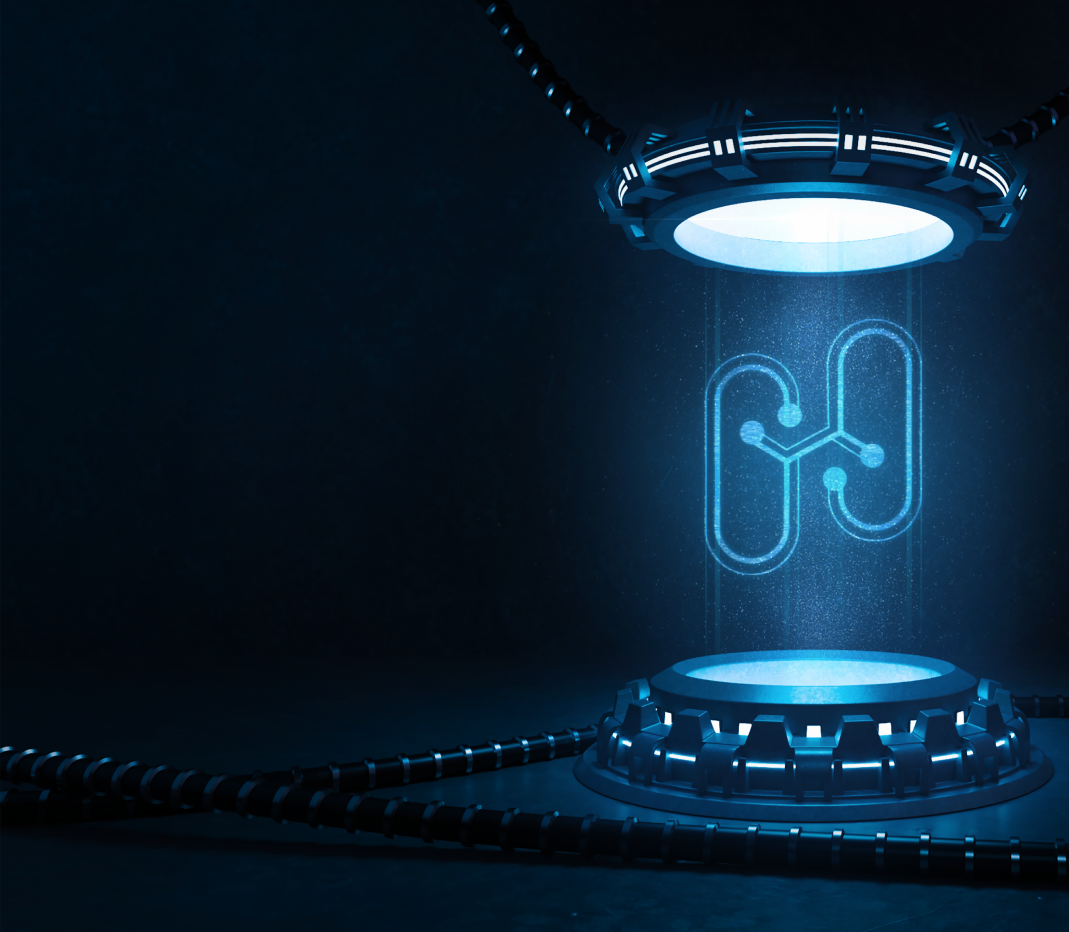
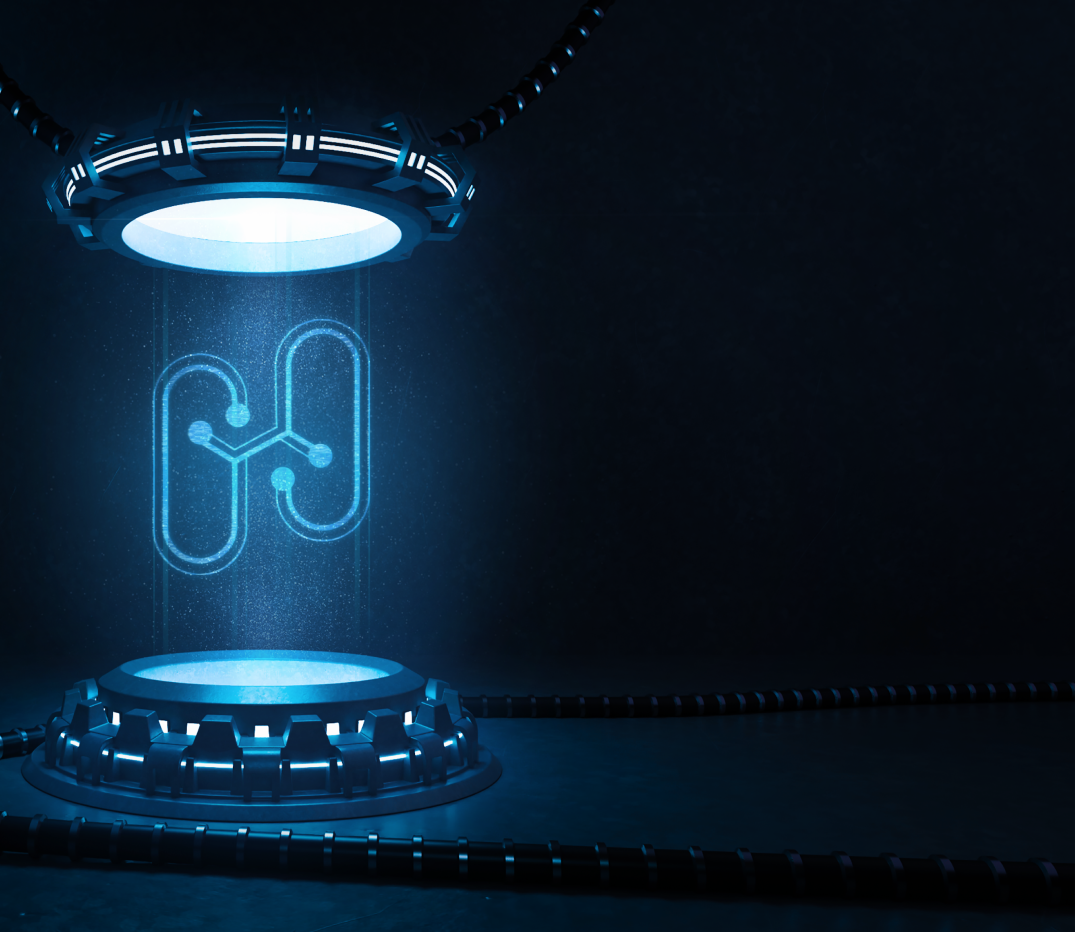
Almost finished Overview section

diff --git a/components/Content/First.tsx b/components/Content/First.tsx
@@ -22,14 +22,32 @@ export const First = () => {
               '21vw 22vh 1px 1px #fff,13vw -49vh 1px 0px #fff,-38vw -40vh 0px 0px #fff,-18vw -23vh 0px 1px #fff,-38vw -49vh 1px 0px #fff,44vw 2vh 0px 1px #fff,-35vw 6vh 0px 1px #fff,-28vw 13vh 1px 0px #fff,-37vw -23vh 0px 0px #fff,-9vw 16vh 0px 0px #fff,21vw -18vh 1px 0px #fff,37vw 28vh 0px 0px #fff,34vw -29vh 0px 1px #fff,35vw 31vh 1px 0px #fff,37vw -6vh 0px 0px #fff,27vw -1vh 1px 1px #fff,-11vw 28vh 0px 1px #fff,-36vw 12vh 0px 1px #fff,4vw 32vh 1px 0px #fff,38vw -38vh 1px 0px #fff,14vw -5vh 1px 0px #fff,30vw 25vh 0px 1px #fff,44vw 7vh 0px 1px #fff,-50vw -23vh 0px 1px #fff,0vw -14vh 0px 0px #fff,50vw -34vh 1px 1px #fff,48vw -46vh 1px 0px #fff,41vw 32vh 1px 0px #fff,23vw -20vh 0px 1px #fff,23vw -13vh 1px 0px #fff,-49vw -48vh 0px 1px #fff,29vw -12vh 1px 1px #fff,-33vw 50vh 0px 0px #fff,30vw 14vh 1px 1px #fff,20vw -26vh 0px 0px #fff,-16vw -31vh 1px 0px #fff,40vw 1vh 0px 1px #fff,-28vw -43vh 0px 1px #fff,13vw 48vh 1px 0px #fff,49vw -43vh 0px 0px #fff,12vw 45vh 0px 0px #fff,-2vw -22vh 1px 0px #fff,-2vw -41vh 1px 0px #fff,6vw 13vh 1px 0px #fff,-36vw 17vh 1px 1px #fff,29vw -41vh 0px 1px #fff,-32vw 15vh 1px 0px #fff,19vw -44vh 0px 0px #fff,-16vw 31vh 1px 0px #fff,15vw 30vh 1px 0px #fff,-34vw 35vh 0px 1px #fff,13vw -1vh 1px 0px #fff,-7vw -22vh 0px 1px #fff,-20vw -35vh 0px 0px #fff,13vw -37vh 0px 0px #fff,-26vw 50vh 1px 1px #fff,-25vw 40vh 1px 0px #fff,45vw 8vh 0px 1px #fff,-24vw 26vh 0px 0px #fff,48vw 33vh 0px 0px #fff,-17vw -26vh 0px 1px #fff,46vw 36vh 0px 0px #fff,46vw -35vh 0px 0px #fff,-43vw -44vh 1px 0px #fff,1vw -49vh 1px 0px #fff,-37vw 12vh 0px 1px #fff,-49vw -31vh 1px 0px #fff,28vw 22vh 0px 0px #fff,2vw -30vh 1px 0px #fff,-3vw -24vh 0px 0px #fff,-45vw -16vh 0px 1px #fff,44vw -45vh 0px 1px #fff,-23vw -33vh 0px 0px #fff,-49vw 28vh 0px 1px #fff,-30vw 5vh 0px 0px #fff,31vw -5vh 1px 1px #fff,-12vw -28vh 0px 0px #fff,-43vw 49vh 0px 1px #fff,49vw 20vh 0px 0px #fff,-39vw 20vh 1px 1px #fff,-20vw 42vh 1px 1px #fff,-47vw -50vh 1px 1px #fff,-23vw 44vh 0px 1px #fff,34vw 21vh 1px 1px #fff,-43vw -9vh 1px 0px #fff,-28vw 12vh 0px 1px #fff,27vw 38vh 1px 0px #fff,-35vw -14vh 0px 1px #fff,-21vw 1vh 0px 0px #fff,-31vw 45vh 0px 0px #fff,22vw -33vh 0px 0px #fff,-6vw 23vh 0px 1px #fff,8vw -36vh 0px 1px #fff,0vw -43vh 1px 0px #fff,-2vw 29vh 1px 1px #fff,46vw -10vh 1px 0px #fff,-24vw 47vh 0px 0px #fff,-40vw 41vh 1px 0px #fff,-20vw -32vh 1px 0px #fff,33vw -26vh 1px 0px #fff'
           }}
         ></div>
-        <div className='relative'>
-          <OverviewCardLeft />
+        <div className="relative">
+          <OverviewCardLeft
+            sloganRight="Building The"
+            sloganLeft="Future of Web 3"
+            thinTitle="Our"
+            boldTitle="Mission"
+            text="Web3 has immense potential and can disrupt our societies in the long run, but for
+            now it is mostly dangerous. We believe that reliable and trustworthy infrastructures
+            are essential to create a healthy foundation for this new decentralized internet."
+            backImageClass="bg-no-repeat bg-left bg-cover bg-[url('/static/images/HeroLab.png')] lg:rounded-lg w-full"
+          />
         </div>
-        <div className='relative pt-52'>
+        <div className="relative pt-52">
           <OverviewCardRight />
         </div>
-        <div className='relative pt-52'>
-          <OverviewCardLeft />
+        <div className="relative pt-52">
+          <OverviewCardLeft
+            sloganRight="Limitless"
+            sloganLeft="Potential"
+            thinTitle="Our"
+            boldTitle="Identity"
+            text="Halcyon is a Web3 development studio that will bring together 
+            the aspirations of investors and the ambitions of builders while federating a knowledgeable 
+            community. Here are three areas in which we act directly."
+            backImageClass="bg-no-repeat bg-center sm:bg-left bg-cover bg-[url('/static/images/HeroWarp.jpg')] lg:rounded-lg w-full"
+          />
         </div>
       </div>
     </>

diff --git a/components/Cards/OverviewCardLeft.tsx b/components/Cards/OverviewCardLeft.tsx
@@ -5,6 +5,7 @@ interface Props {
   thinTitle?: ReactNode;
   boldTitle?: ReactNode;
   text?: ReactNode;
+  backImageClass?: ReactNode;
   // any props that come into the component
 }
 export const OverviewCardLeft = ({
@@ -13,6 +14,7 @@ export const OverviewCardLeft = ({
   thinTitle,
   boldTitle,
   text,
+  backImageClass,
   ...props
 }: Props) => {
   const element = useRef(null);
@@ -53,12 +55,12 @@ export const OverviewCardLeft = ({
           </div>
           <div className="z-20 relative h-[15vh] w-full flex justify-start lg:pl-16 lg:pr-[15vw]">
             <div className="w-full textBoxShadow text-8xl font-semibold py-3 saira flex justify-end uppercase transform scale-[0] translate-x-0">
-              Building the future of Web3
+              {sloganRight}
             </div>
           </div>
           <div className="z-20 relative h-[15vh] w-full flex justify-start lg:pl-16 lg:pr-[15vw]">
             <div className="w-full textBoxShadow text-8xl font-semibold py-3 saira flex justify-start uppercase transform scale-[0]">
-              The Vision
+              {sloganLeft}
             </div>
           </div>
         </div>
@@ -70,30 +72,29 @@ export const OverviewCardLeft = ({
     <>
       <div ref={element} className='h-[100vh]'>
         <div className="z-20 absolute h-[100vh] w-full flex justify-start lg:pl-36 lg:pr-[35vw] sm:pl-14 sm:pr-[20vw] animate-imageTransition">
-          <div className="bg-no-repeat bg-left bg-cover bg-[url('/static/images/HeroLab.png')] lg:rounded-lg w-full">
+          {/* @ts-ignore */}
+          <div className={backImageClass}>
             <div className="h-[100vh] absolute flex justify-start items-center pl-6 sm:pl-24">
-              <div className="text-4xl font-medium text-gray-400">Our</div>
+              <div className="text-4xl font-medium text-gray-400">{thinTitle}</div>
             </div>
             <div className="h-[100vh] absolute flex justify-start items-center pl-6 sm:pl-24 top-12">
-              <div className="textBoxShadow text-5xl font-bold">Mission</div>
+              <div className="textBoxShadow text-5xl font-bold">{boldTitle}</div>
             </div>
             <div className="h-[100vh] w-[300px] sm:w-96 absolute flex justify-start items-center pl-6 sm:pl-24 top-44">
               <div className="text-md font-regular">
-                Web3 has immense potential and can disrupt our societies in the long run, but for
-                now it is mostly dangerous. We believe that reliable and trustworthy infrastructures
-                are essential to create a healthy foundation for this new decentralized internet.
+                {text}
               </div>
             </div>
           </div>
         </div>
         <div className="z-20 relative sm:h-[15vh] w-full flex justify-start xl:pr-[30vw] lg:pr-[20vw] sm:pr-[15vw]">
           <div className="w-full textBoxShadow px-6 lg:text-8xl sm:text-7xl text-6xl font-bold sm:py-3 saira flex justify-start sm:justify-end uppercase animate-imageTransition translate-x-0">
-            Building the
+            {sloganRight}
           </div>
         </div>
         <div className="z-20 relative sm:h-[15vh] w-full flex justify-start xl:pl-16 lg:pl-14 sm:pl-4">
           <div className="w-full textBoxShadow px-6 sm:px-0 lg:text-8xl sm:text-7xl text-6xl font-bold sm:py-3 saira flex justify-start sm:justify-start uppercase animate-imageTransition">
-            future of Web3
+            {sloganLeft}
           </div>
         </div>
       </div>

diff --git a/components/Cards/OverviewCardRight.tsx b/components/Cards/OverviewCardRight.tsx
@@ -68,18 +68,20 @@ export const OverviewCardRight = ({
     <>
       <div ref={element} className="h-[100vh]">
         <div className="z-20 absolute h-[100vh] w-full flex justify-end lg:pr-36 lg:pl-[35vw] sm:pr-14 sm:pl-[20vw] animate-imageTransition">
-          <div className="bg-no-repeat bg-right bg-cover bg-[url('/static/images/HeroHologram.png')] lg:rounded-lg w-full">
-            <div className="h-[100vh] absolute flex items-center pl-6 sm:pl-24">
-              <div className="text-4xl font-medium flex justify-items-end text-gray-400">Our</div>
-            </div>
-            <div className="h-[100vh] absolute flex justify-start items-center pl-6 sm:pl-24 top-12">
-              <div className="textBoxShadow text-5xl font-bold">Identity</div>
-            </div>
-            <div className="h-[100vh] w-[300px] sm:w-96 absolute flex justify-start items-center pl-6 sm:pl-24 top-44">
-              <div className="text-md font-regular">
-                Web3 is a young but fast growing field, and the ecosystems related to different L1s
-                and L2s are still in their infancy. The expansion of the Web3 sphere will require
-                safeguards for investors and effective tools for builders.
+          <div className="bg-no-repeat bg-center sm:bg-right bg-cover bg-[url('/static/images/HeroHologram.png')] lg:rounded-lg w-full">
+            <div className='h-[100vh] w-full flex justify-end text-right'>
+              <div className="h-[100vh] absolute flex items-center pr-6 sm:pr-24">
+                <div className="text-4xl font-medium flex justify-items-end text-gray-400">The</div>
+              </div>
+              <div className="h-[100vh] absolute flex justify-start items-center pr-6 sm:pr-24 top-12">
+                <div className="textBoxShadow text-5xl font-bold">Halcyon Edge</div>
+              </div>
+              <div className="h-[100vh] w-[300px] sm:w-96 absolute flex justify-start items-center pr-6 sm:pr-24 top-44">
+                <div className="text-md font-regular">
+                  Web3 is a young but fast growing field, and the ecosystems related to different
+                  L1s and L2s are still in their infancy. The expansion of the Web3 sphere will
+                  require safeguards for investors and effective tools for builders.
+                </div>
               </div>
             </div>
           </div>
